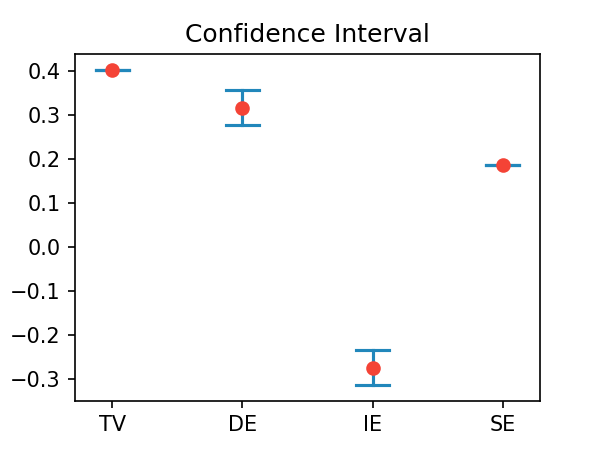
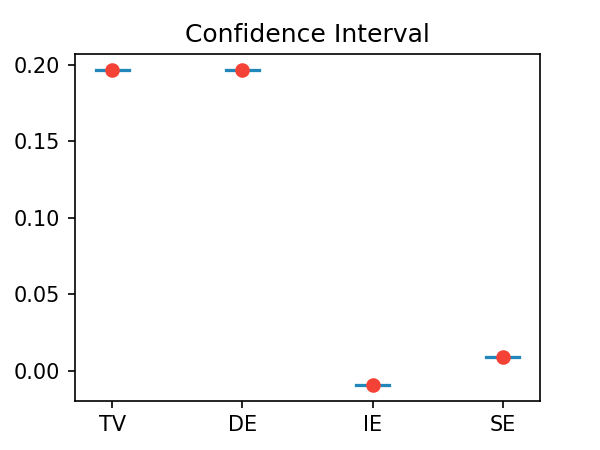
edited normalization

diff --git a/fairness/fairness_cookbook.py b/fairness/fairness_cookbook.py
@@ -39,7 +39,7 @@ def wen_estimator_wrapper(X, Y, W, num_train, estimator_name="OLS1"):
     if yf.shape[-1] == 1:
         yf = np.squeeze(yf, axis=-1)
 
-    estimator_results = models.train_and_evaluate(x=X[0:num_train], t=t[0:num_train], yf=yf[0:num_train], x_test=X[num_train:], estimator_name=estimator_name)
+    estimator_results = models.train_and_evaluate(x=X[0:num_train], t=t[0:num_train], yf=yf[0:num_train], x_test=X[num_train:], estimator_name=estimator_name, dataset_name="fairness_dataset")
     y0_in = estimator_results[0]
     y1_in = estimator_results[1]
     y0_out = estimator_results[3]
@@ -50,6 +50,9 @@ def wen_estimator_wrapper(X, Y, W, num_train, estimator_name="OLS1"):
 
 def estimator_wrapper(X, Y, W, estimator_name, id0, id1):
     # Estimates tau(X). tau(X) = E[Y(1) - Y(0) | X = x].
+
+    Y, y_scaler = normalize_data(Y)
+    X, _ = normalize_data(X)
 
     test_ratio = 0.1
     num_samples = X.shape[0]
@@ -70,13 +73,15 @@ def estimator_wrapper(X, Y, W, estimator_name, id0, id1):
     dataset_name = "fairness_dataset"
     evaluate(X[0:num_train], W[0:num_train], Y[0:num_train], np.arange(num_train), estimator_name, y0_in, y1_in, dataset_name)
 
-
     if len(y0_in.shape) == 1:
         y0_in = np.expand_dims(y0_in, axis=1)
         y1_in = np.expand_dims(y1_in, axis=1)
         y0_out = np.expand_dims(y0_out, axis=1)
         y1_out = np.expand_dims(y1_out, axis=1)
-    
+    y0_in = y_scaler.inverse_transform(y0_in)
+    y1_in = y_scaler.inverse_transform(y1_in)
+    y0_out = y_scaler.inverse_transform(y0_out)
+    y1_out = y_scaler.inverse_transform(y1_out)    
     y0 = np.concatenate((y0_in, y0_out), axis=0)
     y1 = np.concatenate((y1_in, y1_out), axis=0)
 
@@ -91,7 +96,7 @@ def estimator_wrapper(X, Y, W, estimator_name, id0, id1):
 def normalize_data(data):
     data_scaler = StandardScaler().fit(data)
     data_scaled = data_scaler.transform(data)
-    return data_scaled
+    return data_scaled, data_scaler
 
 def fairness_cookbook(data, X, Z, Y, W , x0, x1, estimator_name="RF2"):
     metrics = {}
@@ -102,8 +107,9 @@ def fairness_cookbook(data, X, Z, Y, W , x0, x1, estimator_name="RF2"):
     id0 = idx[(data[:, X][idx] == [x0])[:, 0]]
     id1 = idx[(data[:, X][idx] == [x1])[:, 0]]
 
-    norm_cols = Y + Z + W
-    data[:, norm_cols] = normalize_data(data[:, norm_cols])
+    # norm_cols = Y + Z + W
+    # data[:, norm_cols] = normalize_data(data[:, norm_cols])
+    
     y = data[:, Y]
     x = data[:, X]
     z = data[:, Z]
